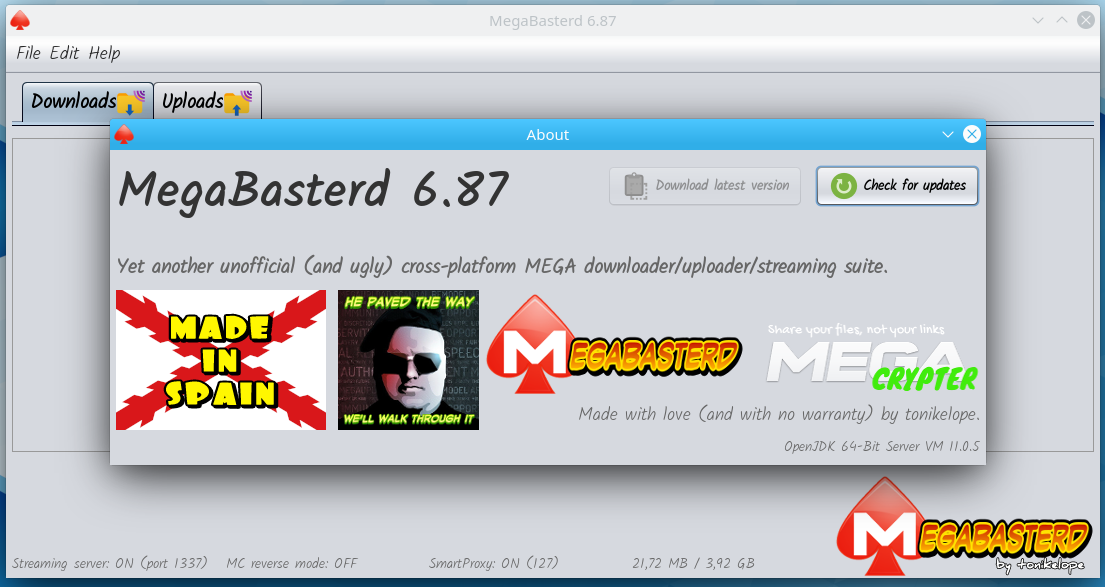
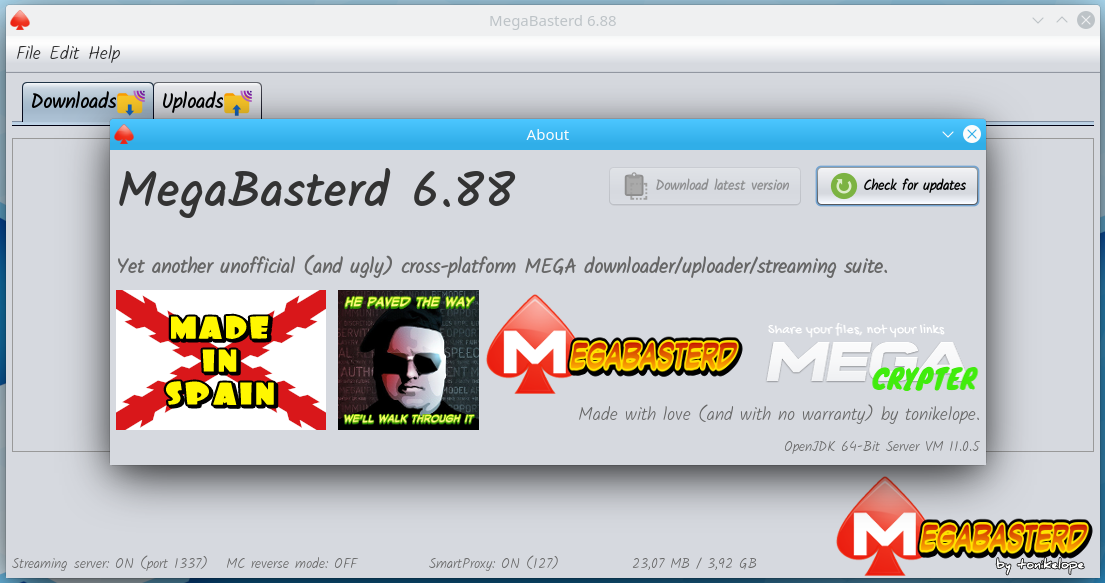
6.88
Fix TEMP UPLOAD CBC MAC

(cherry picked from commit 42bc1b107cb6c6a981899f969184521f4d63877c)

diff --git a/src/main/java/com/tonikelope/megabasterd/UploadMACGenerator.java b/src/main/java/com/tonikelope/megabasterd/UploadMACGenerator.java
@@ -191,6 +191,8 @@ public class UploadMACGenerator implements Runnable, SecureSingleThreadNotifiabl
                     mac = true;
                 }
 
+                _upload.setTemp_mac_data(String.valueOf(tot) + "#" + String.valueOf(chunk_id) + "#" + Bin2BASE64(i32a2bin(file_mac)));
+
                 if (mac) {
 
                     int[] meta_mac = {file_mac[0] ^ file_mac[1], file_mac[2] ^ file_mac[3]};
@@ -199,9 +201,6 @@ public class UploadMACGenerator implements Runnable, SecureSingleThreadNotifiabl
 
                     LOG.log(Level.INFO, "{0} MAC GENERATOR {1} finished MAC CALCULATION. Waiting workers to finish uploading (if any)...", new Object[]{Thread.currentThread().getName(), getUpload().getFile_name()});
 
-                } else {
-
-                    _upload.setTemp_mac_data(String.valueOf(tot) + "#" + String.valueOf(chunk_id) + "#" + Bin2BASE64(i32a2bin(file_mac)));
                 }
             }
 

diff --git a/src/main/java/com/tonikelope/megabasterd/MainPanel.java b/src/main/java/com/tonikelope/megabasterd/MainPanel.java
@@ -53,7 +53,7 @@ import javax.swing.UIManager;
  */
 public final class MainPanel {
 
-    public static final String VERSION = "6.87";
+    public static final String VERSION = "6.88";
     public static final int THROTTLE_SLICE_SIZE = 16 * 1024;
     public static final int DEFAULT_BYTE_BUFFER_SIZE = 16 * 1024;
     public static final int STREAMER_PORT = 1337;
